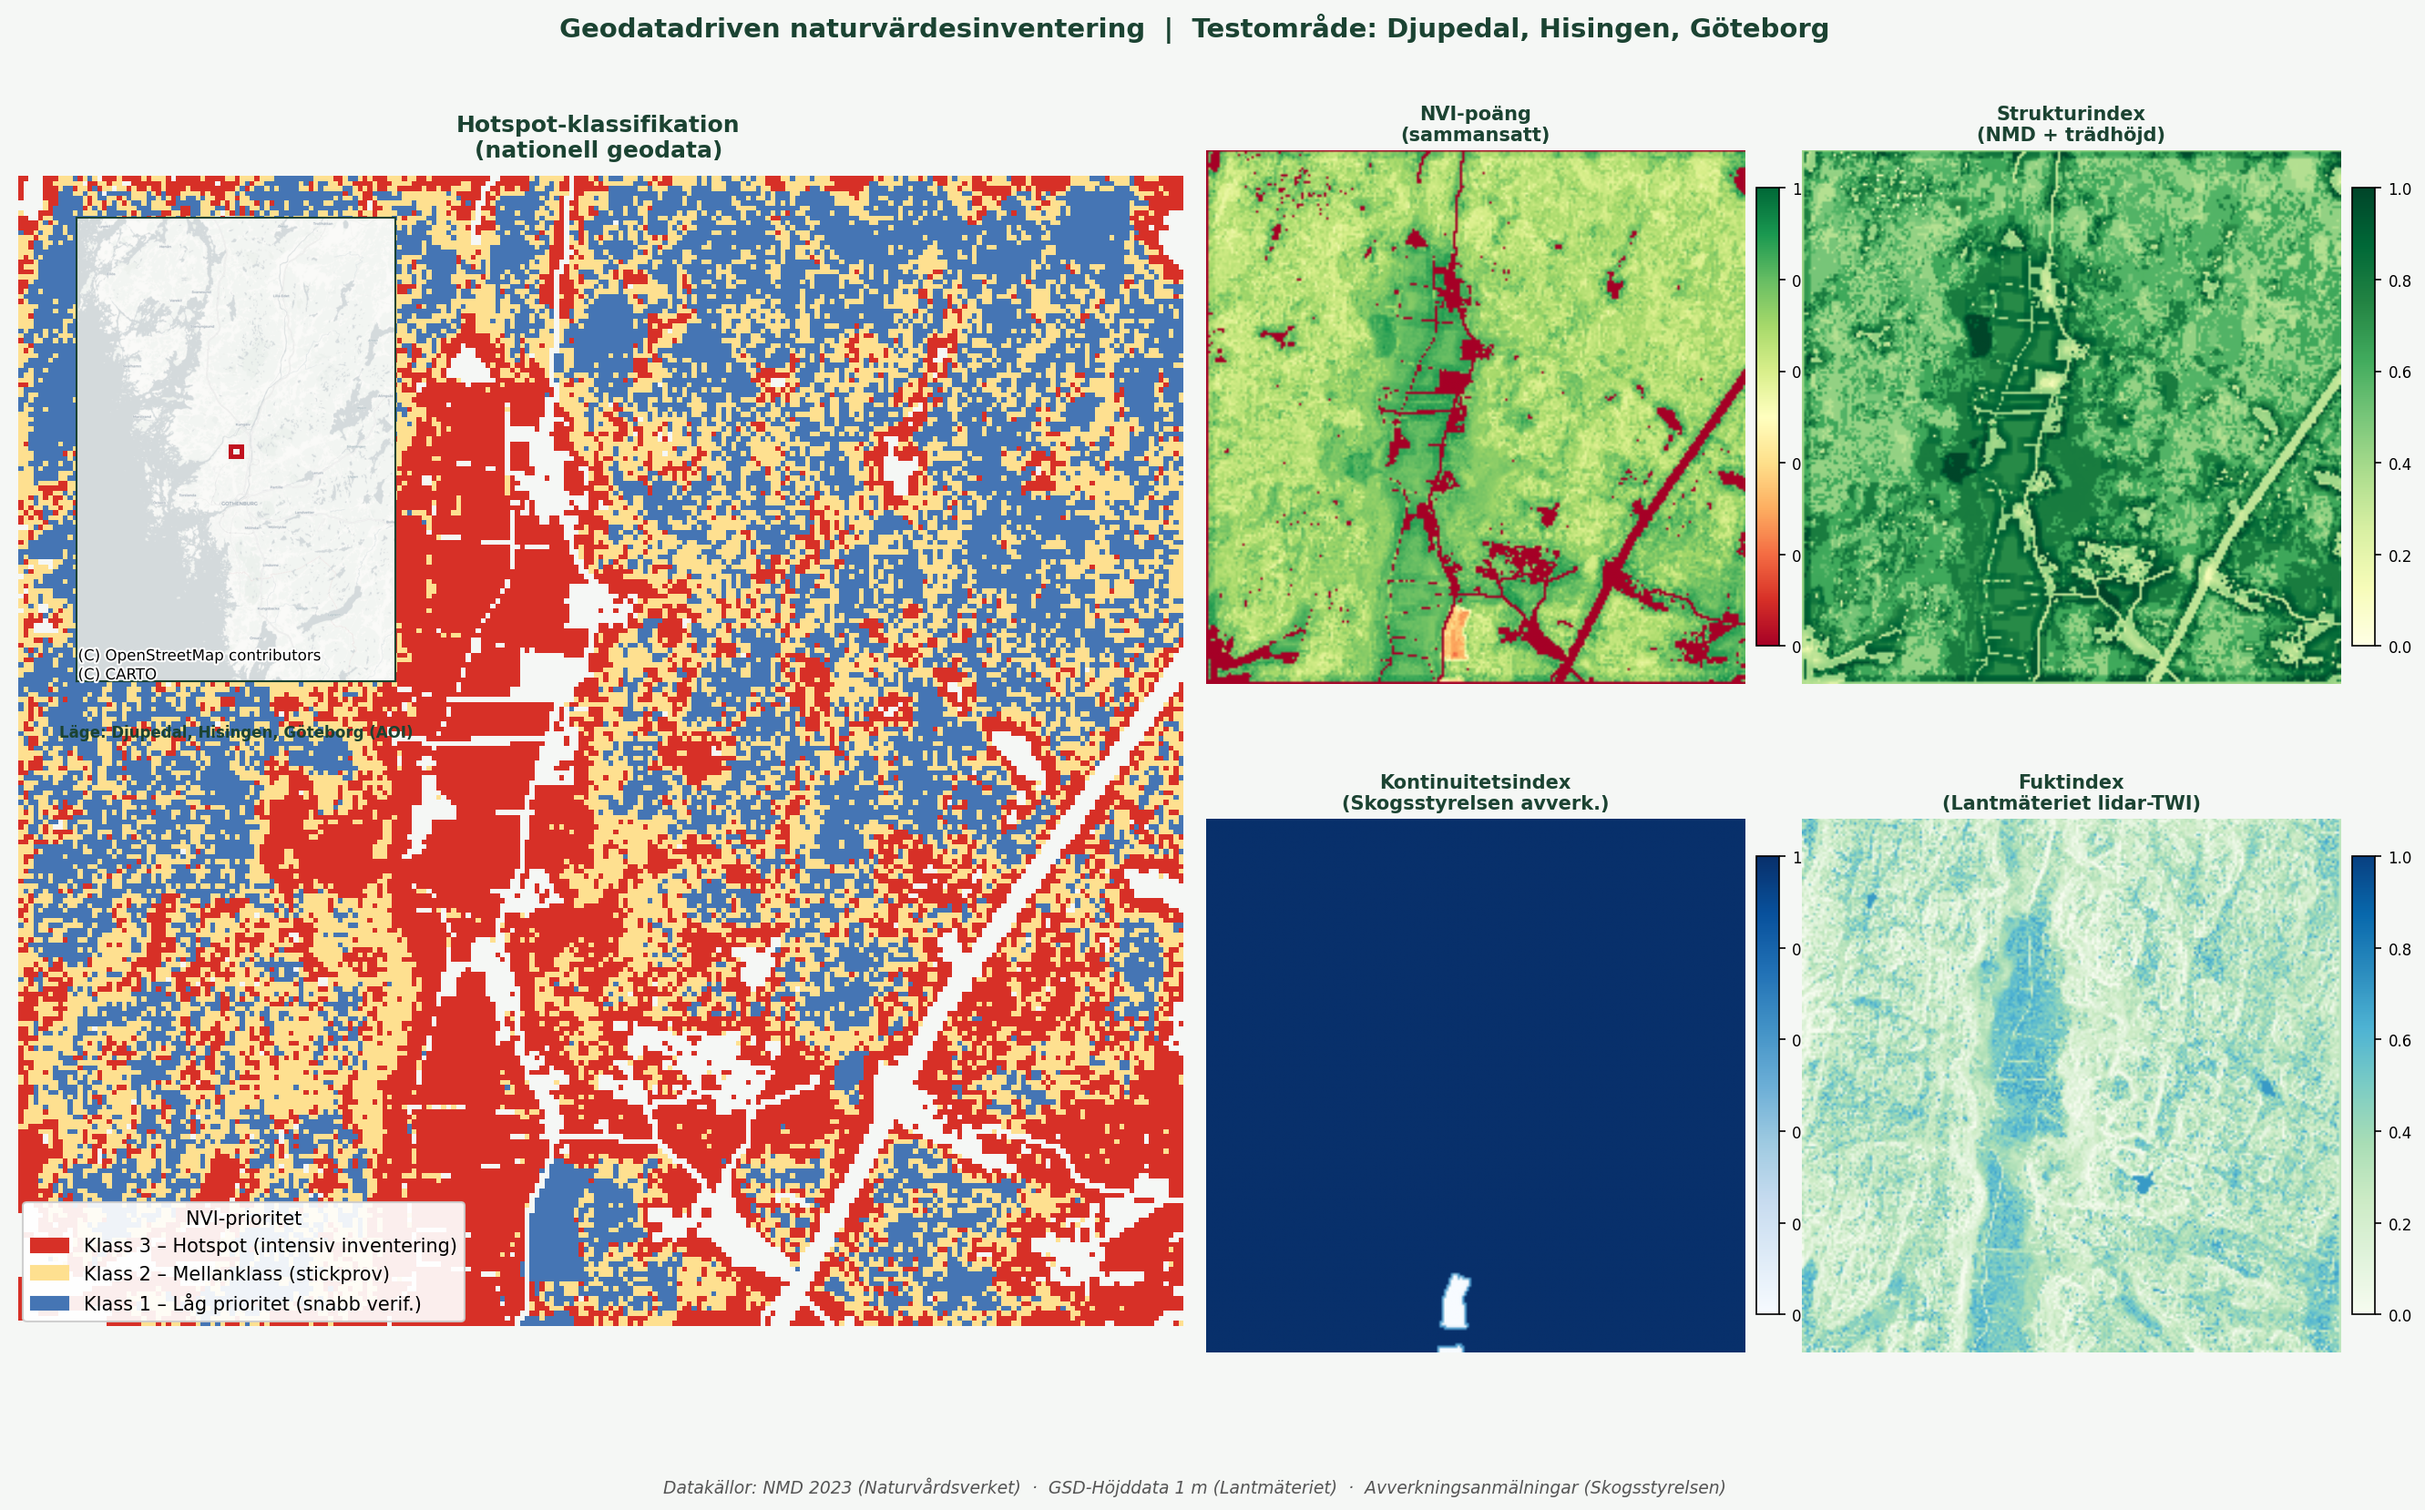
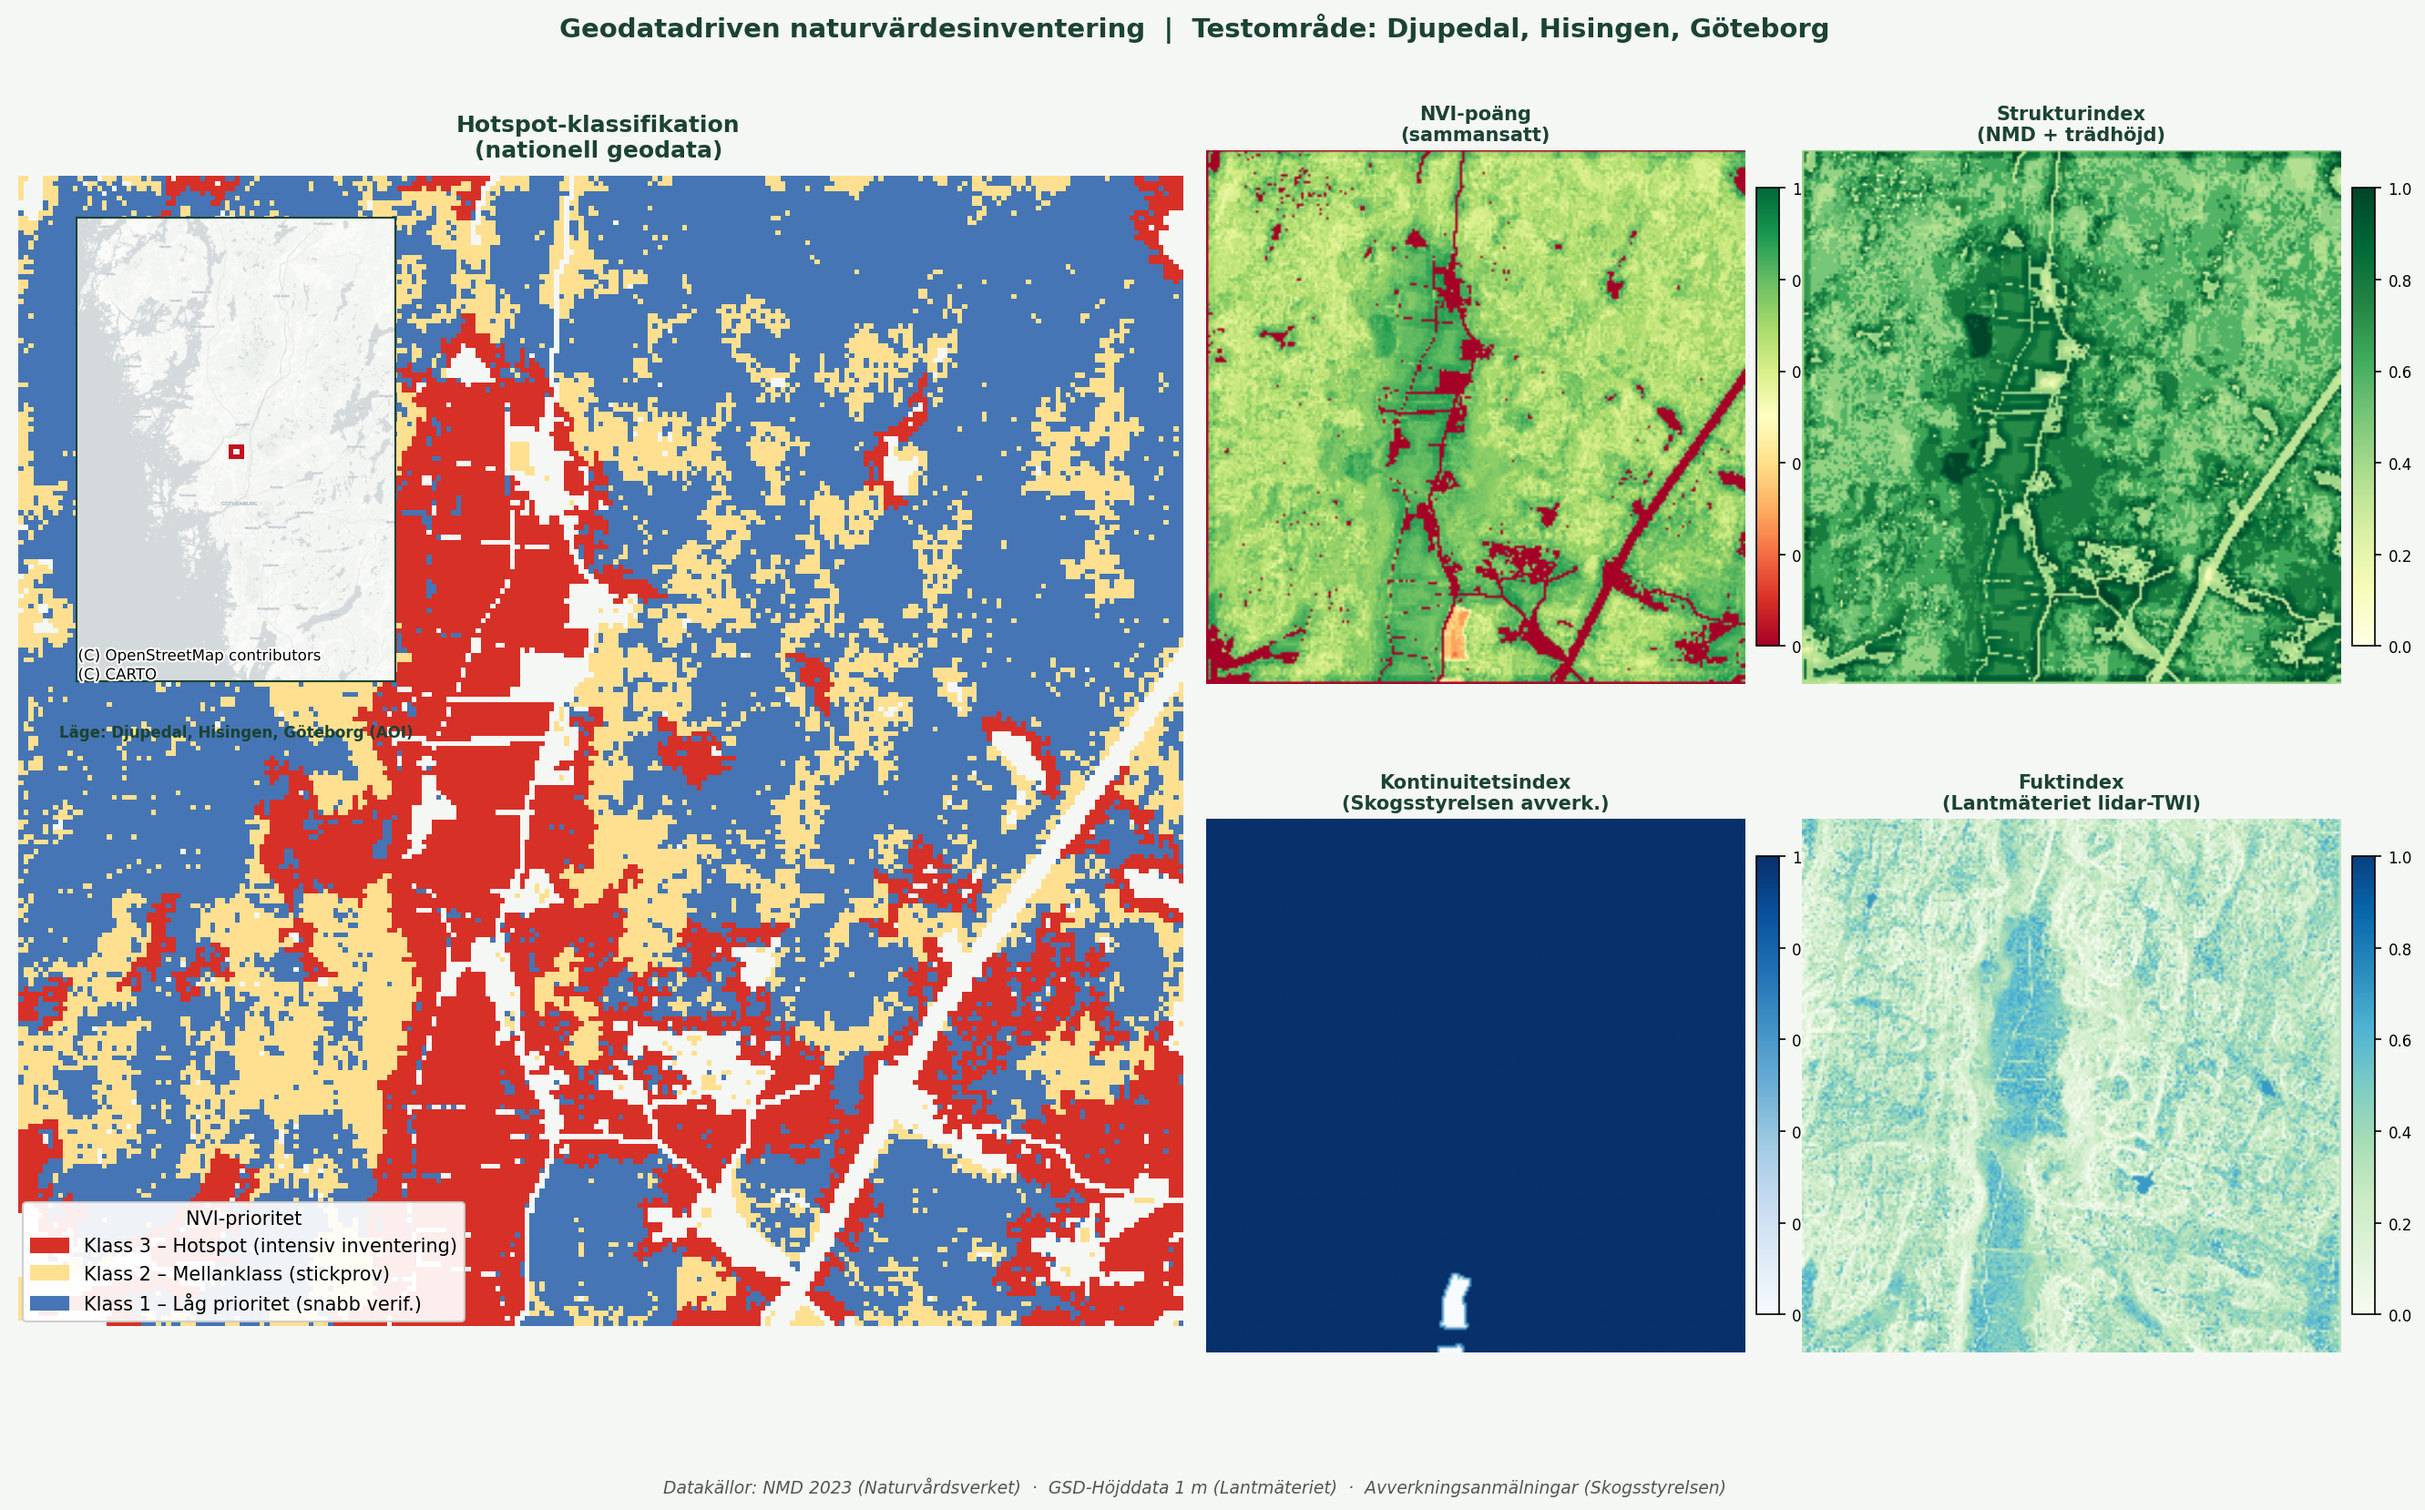
Lägg till NNK-nedladdning, patchfilter och NNK/nyckelbiotop-bonus
- hotspot_model.py: patchstorlek-filter (0.5 ha min) nedgraderar
  isolerade klass 2–3 utan sammanhängande yta; klass 3→2, klass 2→1
- download_data.py: download_nnk() hämtar Naturtypskartan per
  länsbokstav (config NNK_LAN), läser YTA-polygoner och filtrerar
  skogsliga N2000-typer (9010/9070/9160/9190/91D0 m.fl.) mot AOI
- compute_indices.py: NNK-polygoner rasteriseras och ger +0.20 bonus
  i strukturindex när data finns (aktiveras automatiskt)
- config.py: NNK_DIR + NNK_LAN

Validering mot rapport 2022:42: 45% exakt träff (vs 25% ursprungligen),
areal-viktad träff 72% (vs 43%). Klass 4-överskattning halverad.
NNK saknar täckning för Djupedal (ej N2000-karterat) men aktiveras
automatiskt för framtida AOI:er med NNK-data.

diff --git a/scripts/python/download_data.py b/scripts/python/download_data.py
@@ -37,6 +37,8 @@ from config import (
     LM_DIR,
     SLU_DIR,
     PROTECTED_SITES_DIR,
+    NNK_DIR,
+    NNK_LAN,
     LANTMATERIET_API_KEY,
     get_lantmateriet_token,
     EPSG_SWEREF,
@@ -302,6 +304,127 @@ def download_nyckelbiotoper() -> None:
 
     except Exception as e:
         print(f"  [FEL]  {e}")
+
+
+# ── 4. Naturvårdsverket NNK (Natura Naturtypskartan) ─────────────────────────
+#
+# NNK kartlägger Natura 2000-naturtyper med direkta kvalitetsindikationer.
+# Skogliga N2000-typer (9010, 9070, 9160, 9190, 91D0 etc.) korrelerar med NVI klass 1–2.
+# Öppen nedladdning per län från geodata.naturvardsverket.se.
+
+NNK_BASE = "https://geodata.naturvardsverket.se/nedladdning/naturtypskartan"
+
+# NNK NATURTYP-värden för skogsliga naturtyper med högt naturvärde (NVI klass 1–2).
+# NNK använder egna koder som avviker från N2000-koder:
+#   9740 = Skogbevuxen myr (91D0)
+#   9810 = Osäker Taiga/ickenatura-skog  (möjlig 9010)
+#   9820 = Obestämd ädellövskog (9020, 9850, 9860)
+# Vi inkluderar även trädklädd betesmark (6913) och ädellövskogskoder.
+NNK_FOREST_CODES = {
+    # Säkra skogsliga N2000-typer
+    "9010", "9010A", "9010B",
+    "9020", "9050", "9060", "9070", "9080",
+    "9160", "9190", "91D0", "91E0",
+    # NNK-egna koder
+    "9740",   # Skogbevuxen myr (= 91D0)
+    "9820",   # Obestämd ädellövskog
+    "6913",   # Trädbärande kultiverad betesmark (= 9070)
+}
+
+
+def download_nnk() -> None:
+    print(f"\n[Naturvardsverket NNK – Naturtypskartan (lan {NNK_LAN})]")
+
+    gpkg_out = NNK_DIR / f"nnk_{NNK_LAN.lower()}_skogstyper_aoi.gpkg"
+    if gpkg_out.exists():
+        print(f"  [skip] {gpkg_out.name}")
+        return
+
+    import zipfile, tempfile, os
+
+    url      = f"{NNK_BASE}/Naturtypskartan_{NNK_LAN}.zip"
+    zip_dest = NNK_DIR / f"Naturtypskartan_{NNK_LAN}.zip"
+
+    if not download_file(url, zip_dest):
+        return
+
+    print(f"  Packar upp {zip_dest.name} ...")
+    try:
+        with zipfile.ZipFile(zip_dest, "r") as z:
+            names = z.namelist()
+            gpkg_names = [n for n in names if n.lower().endswith(".gpkg")]
+            shp_names  = [n for n in names if n.lower().endswith(".shp")]
+            print(f"  Innehall: {len(names)} filer  ({len(gpkg_names)} gpkg, {len(shp_names)} shp)")
+
+            # Prioritera YTA (polygoner) framför LIN/PKT
+            yta_names = [n for n in shp_names if "YTA" in n.upper()]
+            if yta_names:
+                target = yta_names[0]
+            elif gpkg_names:
+                target = gpkg_names[0]
+            elif shp_names:
+                target = shp_names[0]
+            else:
+                print("  [FEL] Hittade ingen gpkg/shp i zip-filen")
+                return
+
+            tmp_dir = NNK_DIR / "_tmp_nnk"
+            tmp_dir.mkdir(exist_ok=True)
+            for name in names:
+                if Path(name).suffix.lower() in (".gpkg", ".shp", ".dbf", ".prj", ".shx", ".cpg"):
+                    z.extract(name, tmp_dir)
+
+        # Läs in, filtrera på skogsliga N2000-koder, klipp till AOI
+        x_min, y_min, x_max, y_max = aoi_sweref()
+        aoi_box = box(x_min, y_min, x_max, y_max)
+
+        src_path = tmp_dir / target
+        print(f"  Laser {src_path.name} ...")
+        gdf = gpd.read_file(src_path)
+        print(f"  Totalt {len(gdf)} naturtypspolygoner i lanet")
+
+        # Hitta naturtyps-kolumn
+        nat_col = None
+        for c in gdf.columns:
+            if c.lower() in ("naturtyp", "n2000kod", "natura2000", "kod", "code", "naturtyps_kod"):
+                nat_col = c
+                break
+        if nat_col is None:
+            print(f"  [VARNING] Hittade ingen naturtypskolumn. Kolumner: {list(gdf.columns)}")
+            gdf_aoi = gdf[gdf.geometry.intersects(aoi_box)]
+        else:
+            print(f"  Naturtypskolumn: '{nat_col}'  Unika koder: {gdf[nat_col].nunique()}")
+            # Matcha på NNK_FOREST_CODES – koden kan ha ett suffix " - Beskrivning"
+            def _code_matches(val):
+                s = str(val).strip()
+                # Exakt match
+                if s in NNK_FOREST_CODES:
+                    return True
+                # Koden kan vara "9740 - Skogbevuxen myr (91D0)" – ta första delen
+                prefix = s.split(" ")[0].split("-")[0].strip()
+                return prefix in NNK_FOREST_CODES
+            forest_mask = gdf[nat_col].apply(_code_matches)
+            gdf_forest  = gdf[forest_mask]
+            gdf_aoi     = gdf_forest[gdf_forest.geometry.intersects(aoi_box)]
+            print(f"  Skogsliga N2000-typer i lanet: {len(gdf_forest)}  inom AOI: {len(gdf_aoi)}")
+
+        if gdf_aoi.crs is None:
+            gdf_aoi = gdf_aoi.set_crs(epsg=EPSG_SWEREF)
+        elif gdf_aoi.crs.to_epsg() != EPSG_SWEREF:
+            gdf_aoi = gdf_aoi.to_crs(epsg=EPSG_SWEREF)
+
+        gdf_aoi.to_file(gpkg_out, driver="GPKG")
+        print(f"  [ok]   {gpkg_out.name}  ({len(gdf_aoi)} polygoner)")
+
+    except Exception as e:
+        print(f"  [FEL]  {e}")
+    finally:
+        # Rensa temporär mapp och zip
+        import shutil
+        if (NNK_DIR / "_tmp_nnk").exists():
+            shutil.rmtree(NNK_DIR / "_tmp_nnk", ignore_errors=True)
+        if zip_dest.exists():
+            zip_dest.unlink()
 
 
 # ── 3. SLU Skogliga Grunddata ─────────────────────────────────────────────────
@@ -879,6 +1002,7 @@ def main():
     download_nmd(confirm=args.nmd_confirm)
     download_skogsstyrelsen()
     download_nyckelbiotoper()
+    download_nnk()
     download_slu_grunddata()
     download_lantmateriet_dem()
     if args.protected_sites:

diff --git a/scripts/python/compute_indices.py b/scripts/python/compute_indices.py
@@ -24,7 +24,7 @@ from config import (
     PROC_DIR, WEIGHTS,
     NMD_FOREST_CLASSES, NMD_WETLAND_CLASSES,
     HANSEN_DIR, WORLDCOVER_DIR, DEM_FALLBACK_DIR,
-    NYCKELBIOTOP_DIR,
+    NYCKELBIOTOP_DIR, NNK_DIR,
 )
 
 try:
@@ -235,6 +235,32 @@ def build_structure_index():
             nb = resample_to((nb > 0).astype(float), structure.shape)
             structure += nb * 0.25   # stark bonus – nyckelbiotop = klass 1–2 i NVI
             print("  + Nyckelbiotop-bonus applicerad")
+
+        # NNK-bonus: Natura 2000-naturtyper (skogsliga) indikerar höga naturvärden
+        nnk_files = list(NNK_DIR.glob("nnk_*_skogstyper_aoi.gpkg"))
+        if nnk_files:
+            try:
+                import geopandas as gpd
+                from rasterio.features import rasterize as _rasterize
+                nnk_gdf = gpd.read_file(nnk_files[0])
+                if len(nnk_gdf) > 0:
+                    if nnk_gdf.crs is None or nnk_gdf.crs.to_epsg() != EPSG_SWEREF:
+                        nnk_gdf = nnk_gdf.to_crs(epsg=EPSG_SWEREF)
+                    # Rasterisera mot strukturindexets grid
+                    geom = geom_sweref()
+                    with rasterio.open(NMD_BASSKIKT) as _src:
+                        _arr, _tf = rio_mask(_src, geom, crop=True)
+                        _shape = (_arr.shape[1], _arr.shape[2])
+                        _transform = _tf
+                    shapes = [(g, 1) for g in nnk_gdf.geometry if g is not None and not g.is_empty]
+                    if shapes:
+                        nnk_arr = _rasterize(shapes, out_shape=_shape,
+                                             transform=_transform, fill=0, dtype="uint8")
+                        nnk_arr = resample_to(nnk_arr.astype(float), structure.shape)
+                        structure += (nnk_arr > 0).astype(float) * 0.20
+                        print(f"  + NNK-bonus applicerad ({len(nnk_gdf)} naturtypspolygoner)")
+            except Exception as _e:
+                print(f"  [VARNING] NNK-bonus misslyckades: {_e}")
 
         return np.clip(structure, 0, 1), meta
 

diff --git a/scripts/python/hotspot_model.py b/scripts/python/hotspot_model.py
@@ -17,6 +17,7 @@ import matplotlib.pyplot as plt
 import matplotlib.colors as mcolors
 import matplotlib.patches as mpatches
 from pathlib import Path
+from scipy.ndimage import label as _label
 
 sys.path.insert(0, str(Path(__file__).parent))
 from config import AOI_NAME, PROC_DIR, FIGURES_DIR, RASTERS_DIR
@@ -42,6 +43,30 @@ def classify_hotspots(score: np.ndarray) -> tuple[np.ndarray, float, float]:
 
     print(f"  Trosklar: p33={p33:.3f}  p67={p67:.3f}")
     return cls, p33, p67
+
+
+def apply_patch_filter(cls: np.ndarray, pixel_size_m: float,
+                       min_ha: float = 0.5) -> np.ndarray:
+    """Nedgraderar isolerade klasser 2–3 som är för små för fältinventering.
+
+    Sammanhängande pixelgrupper (4-konnektivitet) under min_ha hectar
+    degraderas ett steg: klass 3→2, klass 2→1.
+    Klass 1 påverkas inte – låg prioritet behöver inget minimimått.
+    """
+    min_pixels = max(1, int(min_ha * 10_000 / pixel_size_m**2))
+    result = cls.copy()
+
+    for k in [3, 2]:
+        mask = (cls == k).astype(np.uint8)
+        labeled, n_features = _label(mask)
+        for i in range(1, n_features + 1):
+            patch = labeled == i
+            if patch.sum() < min_pixels:
+                result[patch] = k - 1   # degradera ett steg
+
+    n_degraded = int(np.sum(result != cls))
+    print(f"  Patchfilter ({min_ha} ha): {n_degraded} pixlar nedgraderade")
+    return result
 
 
 # ── Statistik ─────────────────────────────────────────────────────────────────
@@ -152,8 +177,10 @@ def run():
     score[score == nodata] = np.nan
     score = np.nan_to_num(score, nan=0.0)
 
+    px = px_m if px_m > 1 else 10.0
     cls, p33, p67 = classify_hotspots(score)
-    area_statistics(cls, pixel_size_m=px_m if px_m > 1 else 30.0)
+    cls = apply_patch_filter(cls, pixel_size_m=px, min_ha=0.5)
+    area_statistics(cls, pixel_size_m=px)
 
     # Ladda delindex för visualisering
     indices = {}

diff --git a/scripts/python/config.py b/scripts/python/config.py
@@ -68,9 +68,13 @@ NATURVARDSVERKET_DIR = RAW_DIR / "naturvardsverket"
 PROTECTED_SITES_DIR  = NATURVARDSVERKET_DIR / "skyddad_natur"
 # Skogsstyrelsen – nyckelbiotoper (öppet API, samma källa som avverkningar)
 NYCKELBIOTOP_DIR = SKOGSST_DIR  # sparas i skogsstyrelsen/-mappen
+# Naturvårdsverket – Natura Naturtypskartan (NNK), nedladdning per län
+NNK_DIR = NATURVARDSVERKET_DIR / "nnk"
+# Länsbokstav för NNK-nedladdning (O = Västra Götaland, C = Uppsala/Fiby etc.)
+NNK_LAN = "O"
 
 for d in [NMD_DIR, SKOGSST_DIR, LM_DIR, SLU_DIR, S2_EXPORT_DIR,
-          NATURVARDSVERKET_DIR, PROTECTED_SITES_DIR,
+          NATURVARDSVERKET_DIR, PROTECTED_SITES_DIR, NNK_DIR,
           PROC_DIR, FIGURES_DIR, RASTERS_DIR, SPECIES_OUTPUT_DIR,
           ARTER_OBS_DIR, ARTER_RODLISTA_DIR, ARTER_DERIVED_DIR]:
     d.mkdir(parents=True, exist_ok=True)
